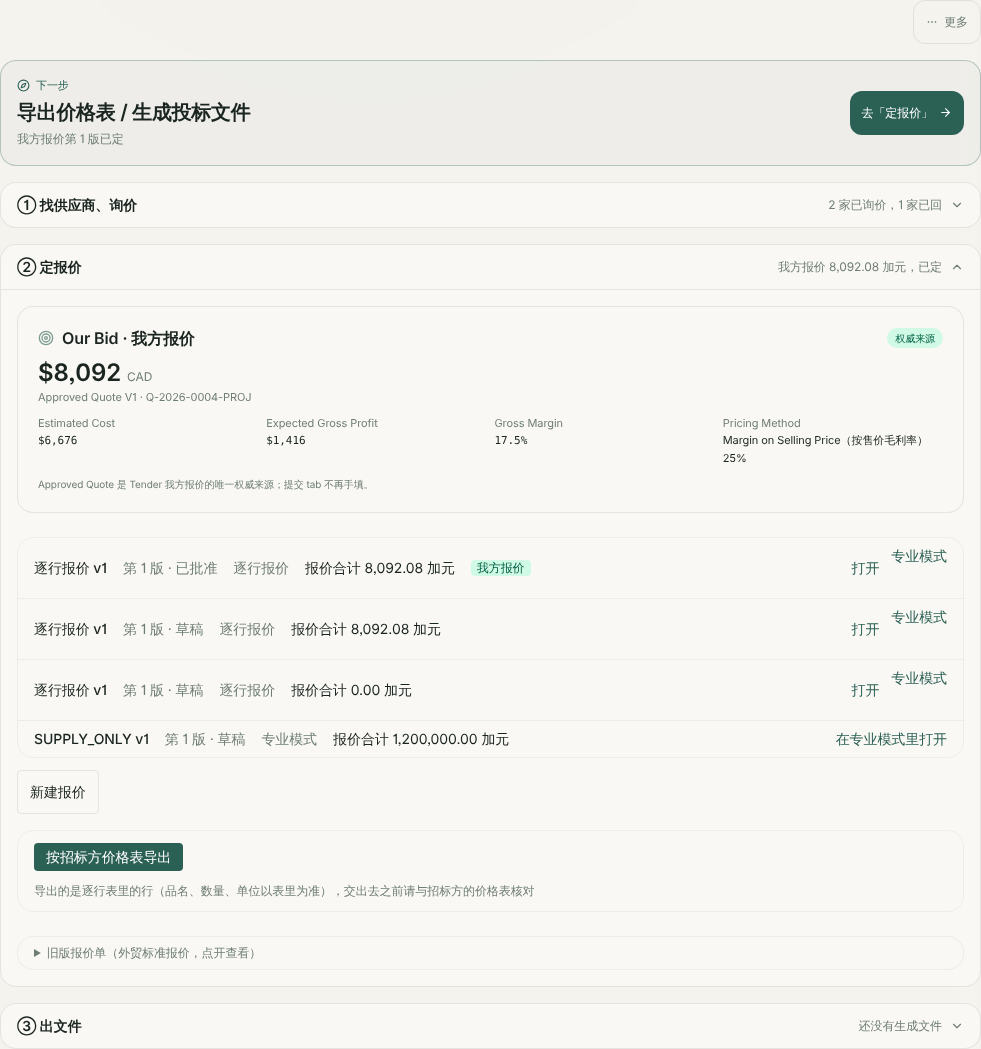
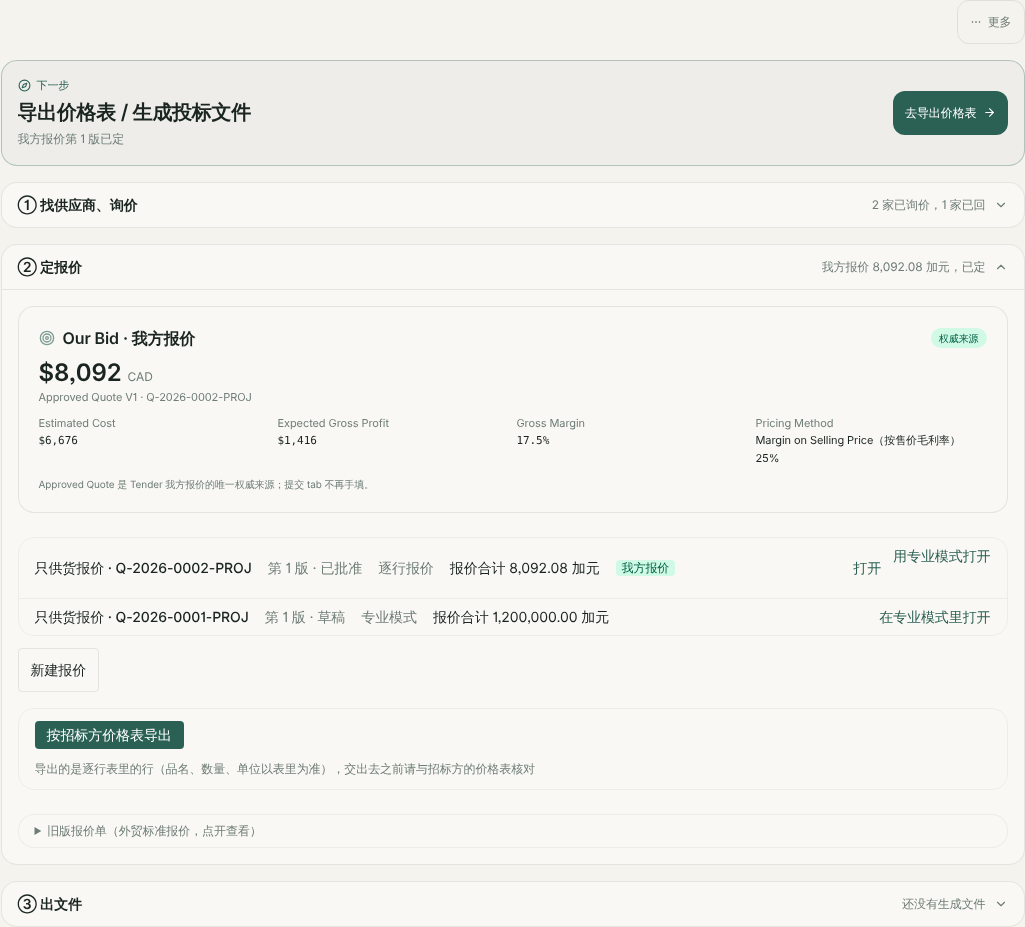
BIDPAGE-3 报告：改了什么、出入、门禁、浏览器抽检（审查修订后重拍两张开关开的截图）、开工前审查 / 六维审查 / 交叉验证的意见与去向、要确认的、没验证到的、回退；tasks 7、8 打勾
Claude-Session: https://claude.ai/code/session_01RmngaCXvkqTgXq8xGa2jdf

diff --git a/docs/QINGYAN_BIDPAGE-3_REPORT.md b/docs/QINGYAN_BIDPAGE-3_REPORT.md
@@ -1,0 +1,254 @@
+# BIDPAGE-3 报告 — 报价做法一「逐行报价」，成本存进系统（`quote-line-mode-persist`）
+
+| 项 | 值 |
+|---|---|
+| TASKFLOW | BIDPAGE-3（Phase F（续）— 标书与报价页改版） |
+| 任务书 | `docs/QINGYAN_BIDPAGE_BID_QUOTE_REDESIGN_TASKBRIEF.md`「BIDPAGE-3」、不确定处 1 / 2 / 4、附录 C 决定 A / C / H |
+| OpenSpec change | `openspec/changes/quote-line-mode-persist/`（新能力 `tender/quote-line-mode` 15 条；改 `tender/bid-page` 3 条） |
+| 基线 | origin/main `b717427f`（#561 BIDPAGE-1 归档合并后） |
+| 开关 | `TENDER_BID_PAGE_V2_ENABLED` + `TENDER_BID_PAGE_V2_ORG_ALLOWLIST`，默认关（与 BIDPAGE-1 同一组） |
+
+## 1. 做了什么
+
+| 以前 | 开关开着时（新页面 ②） | 开关关着时 |
+|---|---|---|
+| 招标方有价格表的标：成本只记在这台电脑的浏览器里（投标工作区成本卡），报价还得到专业模式另做一遍 | ② 换成新的报价区：报价列表 →「新建报价」两问（怎么交价 / 业务类型）→ 逐行报价（7 列表、共用参数、四项预置、目标毛利率、顶部四个数、差额说明）→「按招标方价格表导出」；旧版报价单折叠在最下面。都在金额门里 | 与改版前相同（入口仍渲染改版前的 `BidTab`；旧接口、专业模式行为不变） |
+| — | 成本存进报价引擎的成本行 `QuoteCostLine`（行身份在 `metadata.bidLine`），四个数与每行的数都只取 `computeQuote` 的结果 | — |
+| — | 新接口 `GET`/`POST /api/projects/{id}/bid-page/quotes`、`GET`/`PUT …/{quoteId}/line`、`GET …/{quoteId}/export` | 先过报价权限守卫，然后 404 |
+| 「下一步」「已定 → 导出价格表 / 生成投标文件」去 ③ | 看得到金额且我方报价是逐行报价时去 ②（按钮「去导出价格表」），否则照旧去 ③ | — |
+
+金额门（附录 C 决定 C，与 BIDPAGE-1 同一口径）：内部成本权限 ∧ 财务查看权（`resolveFinancePrivilege(...).canReadAll`）。② 整块只给看得到金额的人；写接口还要编辑权限。
+
+改到的已有文件（其余都是新文件）：
+
+| 文件 | 改了什么 |
+|---|---|
+| `src/lib/quote-engine/contract.ts` | `engineConfigSchema` 加可选 `entryMode`（不认识的值只丢自己）；专业模式保存用的 `quoteHeaderSchema.engine` 去掉这个字段（开关关时与改前相同） |
+| `src/lib/quote-engine/service.ts` | `nextQuoteNumber` 加 `export`，不改行为 |
+| `src/lib/bid-page-v2/next-step.ts`、`service.ts` | 「已定」的去处（只对看得到金额的人读做法） |
+| `src/components/bid-page-v2/bid-page-v2.tsx` | ② 的内容换成新区块，不再挂投标工作区面板与改版前的报价区 |
+| `scripts/test-all.sh`、`scripts/test-ci-unit.sh` | 三份新测试的注册行 |
+| `docs/QINGYAN_BIDPAGE_BID_QUOTE_REDESIGN_TASKBRIEF.md` | 附录 A 补三行（价格表单位、加拿大税名、币种） |
+| `docs/QINGYAN_MUSE_BRIDGE_TASKFLOW.md` | BIDPAGE-3 行 `[~]`，「恢复编辑报价」改判为不恢复 |
+
+`computeQuote`、`QUOTE_ENGINE_CALC_VERSION`（仍是 `quote-engine-calc/v2`）、`QUOTE_TRANSITIONS`、成本类别与计算方式、模板默认值都没改。零 schema；没有新增模型调用、出站、队列。
+
+## 2. 与任务书的出入
+
+proposal「与任务书的出入」七条，理由见 design：
+
+1. 没有财务查看权的人在新页面上连「报价合计」也看不到（验收 5 写「只看到报价合计」；Evan 对 CHAIN-2e 的答复 ② 也支持给他们看客户视图）——取更保守的决定 C（D7）。
+2. 有编辑权、没有财务查看权的人在新页面上不能做报价——Evan 对 CHAIN-2e 的答复 ①；BIDPAGE-1 记的「恢复编辑」义务改判为不恢复（D7）。
+3. 「逐行」只配「只供货」；供货加安装、长期供货协议转去专业模式，它们的我方报价不能按价格表导出（D1）。
+4. 提交、批准、选为我方报价仍在专业模式里做（只有一份已批准时系统自动选中），一次定价是 BIDPAGE-6。
+5. 新页面开着时界面上没有地方能存价格表，逐行表的行实际从「招标分析带入 → 核对 → 导入 → 保存」来（D5）。
+6. 逐行合计与系统记的我方报价之差上限是 Σ(数量 × 0.005)，不总是附录 C 说的「几分钱」（D4）。
+7. 货品类别用 `PROCUREMENT`、预置说明照引擎真实算法、不复用 `line-entry.ts`（D3 / D5）。
+
+不写 `QuoteLineItem`（附录 C 决定 H）；只有引擎一套算法、四个数取引擎（不确定处 1 / 4 的结论，D4）；`engineConfigSchema` 加可选字段的核对（不确定处 2，D1）。
+
+## 3. 测试与门禁
+
+本机（Node 24、Postgres 16 隔离库，`NODE_ENV=test DATABASE_ENVIRONMENT=isolated`），2026-11-23，基于 main `b717427f`：
+
+| 项 | 结果 |
+|---|---|
+| `npm test`（全量，带隔离库），六维审查修订后 `a0d020bf` | **721/731，10 项失败，与 main 既有失败逐项相同**（名单同 BIDPAGE-1 报告 §3） |
+| `npm test`，交叉验证建议补的测试之后（最终代码 `954d81c5`） | 进行中（结果补在这里与 PR 正文） |
+| `npm run test:ci`（CI 同款环境变量：占位 `DATABASE_URL`、`NODE_ENV=test`、不设 `DATABASE_ENVIRONMENT`） | `CI unit subset PASS`（`a0d020bf`）；最终代码：进行中 |
+| 本 PR 新测试 | `quote-line.test.ts` 96/96；`quote-step.test.tsx` 58/58；`quote-line-db.isolated.test.ts` 64/64 |
+| BIDPAGE-1 的测试 | `next-step.test.ts` 124/124；`bid-page-v2.test.tsx` 101/101（含开关关时入口与改版前 `BidTab` 逐字节相同）；`bid-page-summary-db.isolated.test.ts` 55/55 |
+| FIX-21 目录守卫 `project-routes-guard.test.ts` | 98/98（严格通过 254 个处理函数，含本 PR 的 5 个） |
+| `npm run typecheck` | 通过 |
+| `npm run lint:baseline` | PASS（无新增 error fingerprint） |
+| `bash scripts/check-test-registry.sh` | 通过（已注册 696，历史欠账 66 条未增） |
+| `npx -y @fission-ai/openspec@1.15.0 validate quote-line-mode-persist --strict` | valid |
+| `git diff origin/main -- prisma/ vercel.json`；`git diff --stat origin/main -- openspec/specs` | 都为空 |
+
+跑全量前照交接 §4 删了残留的平台组织 wecom 网关行、删了 `.next`。
+
+## 4. 浏览器抽检
+
+本地起应用（隔离库合成数据，平台超级管理员身份），截图在 `docs/acceptance/bidpage-3/`：
+
+- 开关关：分支与 main 同一项目「标书与报价」页签区截图**像素完全一致**（`flag-off-main.png` / `flag-off-branch.png`，sha256 相同）。之后的修订没有动开关关时的渲染路径（入口文件、`BidTab` 都没改），交叉验证复核同意这两张仍然有效。
+- 开关开（审查修订前，05:33）：新建逐行报价、粘贴两行、逐键输入汇率「0.19」（小数点没被吞）、填共用参数与目标毛利率、不合法输入标红且不让保存、保存后四个数与隔离库测试的合成数字一致（8,092.08 / 6,675.97 / 1,416.11 / 17.5%）、差额说明「少 0.28，最多差 0.60」、批准并选为我方报价后导出可用。
+- **抽检时发现并修了 4 个问题**（`e1ff9a3d`）：粘贴进来的人民币行没有汇率格（汇率格改为按实际用到的外币列出）；按钮几乎看不见（用了不存在的 `bg-primary`，改用项目主色）；新建成功后表单不收起；回复里没有金额时写成「只报了总价 —」。
+- 开关开（审查修订后重拍，06:50 前后）：同样的操作再走一遍——汇率逐键「0.19」保存后仍是 0.19；报关费填「25a」标红、保存键灰；四个数 8,092.08 / 6,675.97 / 1,416.11 / 17.5%，差额说明写「最多差 0.60 加元。系统记的我方报价是报价合计；导出给招标方的价格表用逐行合计」；「没有预备金」是灰色说明；单位下拉「Box（盒）」、币种「人民币（CNY）」、预置写「销售提成」与「到手成本 = 货值 + …」、表下有行毛利率口径；编辑器标题「只供货报价 · Q-2026-0002-PROJ」（不再是「逐行报价 v1」）。`flag-on-line-quote.png`。
+- 批准并选为我方报价后：「下一步」是「导出价格表 / 生成投标文件 —— 去导出价格表」；列表标出我方报价；导出可点，实际下载得到 `text/csv`、`attachment; filename="price-schedule-Q-2026-0002-PROJ-v1.csv"`，两行单价 36.78 / 220.69、行合计 3,678.00 / 4,413.80、合计 8,091.80，与逐行表相同。`flag-on-decided-export.png`。（我方报价卡里的英文「Our Bid · Estimated Cost …」是旧组件，归 BIDPAGE-6 / 8。）
+
+## 5. 多维审查与交叉验证
+
+每条意见先核实再处理（「改了」/「不改」带理由）。
+
+### 5.1 开工前审查（1 个子代理，只读；审四件套并对照已写的代码）
+
+结论：2 阻断、17 应改、12 可选。全部逐条核实后处理。
+
+| # | 意见 | 去向 |
+|---|---|---|
+| B1 | tasks 15 条、多数没有 verify（rules.tasks：≤8 条、每条带 verify；隔离库那条没写「在隔离库全过」） | 改了：收成 8 条，每条写命令与预期；隔离库那条写 `DATABASE_ENVIRONMENT=isolated … 在隔离库全过`（`88ee3af8`） |
+| B2 | 数字输入框受控、每键 `toNum`：「12.」变「12」，再打 5 成 125；汇率 0.19 会成 19 | 改了：输入框留着人打的字，读得成数才往上报，读不成标红并不让保存（`parseNumInput` 纯函数 + 测试 14 种写法；删行 / 恢复时撤销登记）；tasks 7 浏览器抽检逐键输入带小数的汇率（`ff37b6f4`） |
+| S1 | 「行自动来自已确认的价格表」生产上走不到（只有投标工作区面板能存价格表，开关没开、新页面也不挂它） | 改了：design D5、proposal 出入第 5 条写明实际入口是招标分析带入；报告「要确认的」写验收 5 的验法 |
+| S2 | 「选为我方报价在我方报价卡里做」与代码不符（卡片只显示、点进去是专业模式；一份已批准时自动选中） | 改了：proposal、design D10、规格「专业模式入口」三处改成在专业模式里做 |
+| S3 | 推翻 TASKFLOW 的「恢复编辑」义务要留痕；实际后果没写；Evan ① 要的白话说明（看得到金额、没有编辑权限的人）缺 | 改了：tasks 8 写改 TASKFLOW 行；design D7 与 Risks 写实际后果、报告请确认；列表加「新建、修改报价需要项目编辑权限，请找项目负责人」，逐行报价只读说明加「请找项目负责人」，规格加场景（`ff37b6f4`） |
+| S4 | 专业模式能改报价币种，改了以后逐行表的汇率、金额都按加元写就错了；列表一律写加元 | 改了：读、存、导出遇到非加元 409 去专业模式；列表带币种并按它显示；规格「与专业模式改同一份报价」写明；隔离库测改成美元的情况 |
+| S5 | `entryMode: z.enum(["LINE"])` 遇到不认识的值整份配置解析失败（回退 BIDPAGE-4 后会丢税与情景） | 改了：`.optional().catch(undefined)`，不认识的值只丢自己；测试锁住税与情景照旧；design D1 写回退情形 |
+| S6 | 「各行毛利率相同」「差几分钱」说法不对（小单价行毛利率偏差明显；大数量差额可达上百元） | 改了：design D4 / Risks、proposal 改成如实说法并量化；界面差额说明里写出上限；补被否决的备选（按行挑进位方向、引擎反推、按体积重量） |
+| S7 | 界面公式「报价 = 成本 ÷（1 − 毛利率）」与顶部成本合计（含提成）对不上 | 改了：「报价 = 提成前的成本 ÷（1 − 目标毛利率），提成再从毛利里扣」，渲染测试锁住 |
+| S8 | 逐行保存会悄悄覆盖专业模式的改动（定价方式、不计入、算法），规格没写 | 改了：规格新增「与专业模式改同一份报价」；定价方式改过且目标毛利率空着时 400；货品不计入 / 类别算法被改 / 共用参数预置算法被改都提示会改回（`ff37b6f4`） |
+| S9 | 规格漏了接口路径与状态码、不是逐行 409、点选改价 400、冻结 409、CSV 类型与文件名、导出 409 / 403、列表字段；MODIFIED 的金额门清单漏「旧版报价单」 | 改了：规格逐条补上；MODIFIED 加旧版报价单 |
+| S10 | 场景数字与测试文件对不上（不写浏览器、草稿导入、0.03、2.5 元） | 改了：场景改成测试里的真实数字与文件；草稿提示的判定抽成纯函数 `draftToPrompt` 并测 |
+| S11 | MODIFIED 增量依赖 `bid-page-v2-shell` 先归档 | 改了：tasks Workflow follow-up 写明先合 #561；tasks 2 / 6 写跑 FIX-21 目录守卫、变基后门禁 |
+| S12 | 「已定」一律去 ②，我方报价是专业模式做的时候不合适 | 改了：我方报价是逐行报价时去 ②，否则照旧去 ③（汇总多读一次做法字段）；BIDPAGE-1 的测试断言恢复为 ③，另加逐行报价去 ② 的用例；规格 MODIFIED 同步 |
+| S13 | 「逐行 + 供货加安装」转去专业模式比任务书窄，没列为出入 | 改了：proposal 出入第 3 条、design D1 写理由，报告请 Evan 确认 |
+| S14 | 导出的是表里可改的行，不一定是招标方原表 | 部分改：导出处写明「导出的是逐行表里的行……请与招标方价格表核对」，规格写明；**不做**与存过的价格表逐行比对——理由：生产上几乎没有存过的价格表（S1），且补遗常要改行（design D9 备选） |
+| S15 | 询价回复的币种不在报价币种里时只得到笼统报错；默认 CAD 可能掩盖没写币种 | 改了：这类回复不能点选并写明原因；点选后提示核对单位与币种 |
+| S16 | 几个 Decision 没写被否决的备选 | 改了：D1–D10 每条补备选与否决理由 |
+| S17 | proposal 没写验收 5 的出入 | 改了：proposal 出入第 1 条 |
+| O1 | 设计说用 `convertQuoteToTenderUom`，代码是自写换算 | 改了设计文字（同一规则，取到 4 位） |
+| O2 | `line-entry.ts`、`reconcile.ts`、货品类别的去向没交代 | 改了：D3 / D4 / D5 各一句 |
+| O3 | 海运柜数 0 被当成计入、引擎随后报错 | 改了：柜数 0 = 不计入，测试锁住 |
+| O4 | 有新版待批准时导出原因误导 | 改了：「我方报价有新版还没定：……」，隔离库测 |
+| O5 | 列表 403 时显示笼统的「没加载出来」 | 改了：显示接口给的原因 |
+| O6 | proposal What 不是动词开头；Non-Goals 不具体 | 改了 |
+| O7 | 「旧配置不受影响」用 omit 推出的旧校验，有点自证 | 不改：本 change 对 schema 的唯一改动就是加这一个键，omit 掉它就是改前的形状；另有源码 diff 可查 |
+| O8 | 到手成本含专业模式加的其它直接成本 | 改了：表下写明到手单位成本怎么来 |
+| O9 | CSV 没防公式注入 | 不改：`official-export.ts` 是共用文件（规格 `tender/price-schedule`），品名来自招标方价格表；记为已知限制与后续（design D9） |
+| O10 | 单位显示英文，BIDPAGE-8 守卫会扫到 | 记进交接：BIDPAGE-8 把招标原文单位列为例外或配中文名 |
+| O11 | 草稿币种没转大写、没对照币种表 | 改了：转大写、不在币种表的那一行不带入并写明；按行号对上不改（草稿与逐行表来自同一张价格表；按品名对反而更易错，design D8） |
+| O12 | 列表与导出可用性各调一次 `resolveTenderBid` | 改了：合并成一次 |
+
+### 5.2 六维审查（6 个子代理，只读；各管一个维度，只看任务书、四件套与 diff）
+
+六个维度都**没有阻断**。应改合计 41 条、可选 46 条，逐条核实后处理。「改了」的代码在 `e7e86f2a`，四件套与文档在 `a0d020bf`。
+
+| 维度 · 结论 | 意见 | 处理 |
+|---|---|---|
+| ① 需求符合 · 无阻断，8 应改 9 可选 | 1 规格 / tasks / design 把「已定按做法去 ② / ③」的测试指到 `next-step.test.ts`（已挪到 `quote-line.test.ts` 7a） | 改了：三处改正（同 ⑤ 1） |
+| | 2 表空时也提示旧草稿，点「导入」带不进任何行却把提示用掉；按行号对上只对来自价格表的行成立 | 改了：表里有按行号对得上的行才提示（`draftToPrompt` 多一个行数参数），保存后再判；行不是来自价格表时提示「按行号对上，请逐行核对品名」；测试补表空不提示 |
+| | 3 行毛利率的口径没在界面注明（不确定处 4） | 改了：表下加一句行毛利率口径；渲染测试锁住 |
+| | 4 粘贴导入后整框清空，没单位的行丢了；招标分析带入沿用投标工作区的说明（「保存时略过」「尺寸、认证要求」不适用） | 改了：粘贴框只去掉已导入的行（`remainingPasteText`），没导入的留着并写明；逐行报价自己的说明 `linePrefillMessageZh` |
+| | 5 出入 5 / D5 没讲透：新页面上存不了价格表；没列「新建时自动从招标分析带入」为被否决的备选 | 改了：D5、出入 5 写明；补被否决的备选（FIX-2「数量线索，由人核对」）；报告写验收 5 的验法 |
+| | 6 出入 1 只引决定 C，漏了 Evan ②（其他人只看客户视图） | 改了：出入 1、D7 补上，写为什么取更保守的一边；报告请确认 |
+| | 7 差额上限与附录 C「几分钱」不同、出入 3 的导出后果没进 proposal | 改了：proposal 新增出入 6；出入 3 补「这两类业务的我方报价不能按价格表导出」；报告请 Evan 确认 |
+| | 8 tasks 没打勾、task 8 没做、TASKFLOW 旧口径 | 改了：tasks 1–5 打勾（6–8 门禁、抽检、报告做完再勾）；TASKFLOW `[~]` 并改判；本报告 |
+| | 可选 9 D1「业务类型问在做法之前」与原文不符；业务类型落在 `quoteType` 没写 | 改了 |
+| | 可选 10 proposal 出入清单不全（PROCUREMENT、说明照真实算法、不复用 line-entry） | 改了：出入 7 |
+| | 可选 11 目标毛利率空着按 0 算没提示 | 改了：顶部写「目标毛利率还没填，按 0% 算」 |
+| | 可选 12 导入草稿会覆盖表里已有的报价 | 改了：已有供应商报价的行不覆盖并写明哪几行 |
+| | 可选 13 导出条下面还有旧版报价单，严格说不是 ② 最底部 | 改了规格措辞（「② 的报价区底部」）；判断点 4 收进「更多」由 BIDPAGE-8 做，记进交接 |
+| | 可选 14「位置不在页面上时只展开分区」与代码（滚到分区标题）不符 | 改了规格措辞 |
+| | 可选 15 `bid-page-v2.tsx` 文件头注释过时 | 改了 |
+| | 可选 16 `seed.scheduleLineCount` 界面没用；报价建好后才存的价格表没有带入入口 | 不改：生产上新页面开着时存不了价格表（D5）；记进交接 |
+| | 可选 17 我方报价不是逐行时「已定」标题仍写「导出价格表」 | 不改：标题是 BIDPAGE-1 的规则，③ 的价格表导出归 BIDPAGE-7；记进交接 |
+| ② 计算正确 · 无阻断，3 应改 8 可选（独立复算 4 行 + 共用参数 + 专业模式保险：四个数、单价、行合计、差额、上限与手算一致） | 1 报价填 0 的行显示「—」、导出说缺单价 | 改了：报价 0 的行单价 0、行合计 0、可导出（不参与按货值分摊）；测试补 |
+| | 2 专业模式改了海运行的数量，逐行表不提示，原样保存报价悄悄变 | 改了：按「数量 × 柜数」读成柜数并提示，保存后金额不变；测试锁住保存前后报价相同 |
+| | 3 「只影响到手单位成本那一列」易被读成运费不进报价 | 改了：「都算进报价合计（所以每行我方单价也跟着变）……」（同 ⑥ 5） |
+| | 可选 1 数量 0.00004 能过校验入库变 0；超 4 位小数悄悄取整；没有上限会写库溢出 500 | 改了：数量最多 4 位小数；数量、供应商报价、行金额、汇率、共用参数、包装数设上限；测试补 |
+| | 可选 2 有「按售价计的比例」行时定价公式不成立 | 改了：公式补半句「专业模式里加了按售价算的费用时，分母再减去这些比例」 |
+| | 可选 3 管理费成本行说明缺「3% 时」 | 改了：「管理费（含自身，3% 时 100 → 103.09）」 |
+| | 可选 4 月数提示「1 到 120」与校验不一致 | 改了：「要大于 0、不超过 120（不足一月按一月）」 |
+| | 可选 5 「一种币一个汇率」不管专业模式加的其它行 | 改了：其它行用了另一个汇率时提示、保存不改它；测试补 |
+| | 可选 6 柜数 0 时每柜的数从界面上消失 | 改了：照样记着、照样显示；测试补 |
+| | 可选 7 到手单位成本只取到分，分以下的货品失真 | 改了：留 4 位，界面不到 1 元时显示 4 位；测试补 |
+| | 可选 8 草稿导入的按件行改单位后口径下拉消失、改不回 | 改了：已是按件的行照样显示口径下拉 |
+| ③ 权限与脱敏 · 无阻断，3 应改 5 可选 | 1 「下一步」对看不到金额的人也读做法并去 ②（锁着），去处随做法变能推出做法 | 改了：汇总只为看得到金额的人读做法；`actionOf` 也判 `canViewAmounts`；测试补看不到金额的人仍去 ③；规格 MODIFIED 写明 |
+| | 2 手填行把提交里的 `supplierName` 写进库（只清了 id）；点选后改价仍留着甲的名字 | 改了：手填行的供应商只沿用库里同一条手填货品行的，否则为空；界面改价 / 币种 / 口径 / 取消点选时一并清；隔离库补三种情况 |
+| | 3 TASKFLOW BIDPAGE-3 行还写「恢复编辑」 | 改了（同 ① 8）；报告点名请 Lucas 确认 |
+| | 可选 1 写接口的门没判内部成本权限 | 改了：`lineModeGate` 先判 `canViewInternal` 再判财务查看权；源码断言锁住顺序 |
+| | 可选 2 专业模式事务与快照之间的窄窗口（丢更新） | 不改代码：要改专业模式的服务（Non-Goals）；写进 design Risks 与交接 |
+| | 可选 3 隔离库缺跨项目用例 | 改了：别的项目的报价走这个地址读 / 存 / 导出、点选别的项目的回复、行 id 指向预置行，都补了 |
+| | 可选 4 汇总新查询没带 `orgId` | 改了（汇总与导出可用性两处） |
+| | 可选 5 CSV 公式注入（本 change 第一次开了导出接口，品名可能来自外部文件） | 改了：`exportLineQuote` 里给以 = + - @ 制表符、回车开头的品名加 `'`（`csvSafeText`），共用的 `official-export.ts` 不改。开工前审查 O9 当时「不改」，这次改判（更保守） |
+| ④ 开关关 = 零变化 · 无阻断，1 应改 3 可选 | 1 旧 PUT `/quote-engine/{quoteId}` 的表头 schema 复用了加了 `entryMode` 的配置：开关关时手工请求能写进库；连带能把库里的 LINE 盖掉、把非只供货报价标成逐行 | 改了：`quoteHeaderSchema.engine = engineConfigSchema.omit({ entryMode: true })`；`isLineModeQuote` 同时要求只供货；测试锁住四种输入下表头解析不带做法、库里的 LINE 合并后保留 |
+| | 可选 1 schema 对照测试用 `JSON.stringify` 比较，测不出多出的 `undefined` 键 | 改了：`isDeepStrictEqual` + 键集合 |
+| | 可选 2 隔离库的开关关只测了列表 | 改了：新建、读、存、导出都 404，库里没多出报价 |
+| | 可选 3 旧页面的前端包变大（静态引入） | 不改：行为不变；入口源码受 BIDPAGE-1 测试断言约束；写进 design Risks |
+| ⑤ 硬纪律 · 八条全遵守，4 应改 7 可选 | 1 规格引用的测试文件不对（同 ① 1） | 改了 |
+| | 2 逐行保存的审计没有 Requirement | 改了：规格写明保存写一条带做法与行数的审计，场景引隔离库（测试断言行数） |
+| | 3 tasks 没打勾、task 8 没做 | 改了（同 ① 8） |
+| | 4 开 PR 前要等 #561 合并再变基 | 照做：#561 已合并（`b717427f`），已变基，`git diff origin/main --stat -- openspec/specs` 为空 |
+| | 可选 5 「各种身份」场景写「库里没变」但没比对 | 改了：被拒的写请求前后比对成本行快照 |
+| | 可选 6 「新版还没定」是条件断言 | 改了：直接断言状态是 `QUOTE_REVISION_PENDING` 且原因含「新版还没定」 |
+| | 可选 7 两处场景引用的测试不全 | 改了 |
+| | 可选 8 规格写了函数名 `computeQuote` | 改了：「直接调用报价引擎」 |
+| | 可选 9 文件名 / Content-Disposition 没断言；引擎算不出的 409 没列；400 文案没枚举 | 改了前两项（隔离库断言附件头；规格列出引擎算不出 409）；400 文案不逐条进规格：在纯测试里逐条锁住，规格写「指到第几行」与关键句 |
+| | 可选 10 proposal「不写浏览器本地存储」与实际写一个标记不一致 | 改了 |
+| | 可选 11 design 硬纪律第 4、8 条写得不准 | 改了 |
+| ⑥ 中文文案 · 无阻断，22 应改 14 可选 | 1 「提成」→「销售提成」（附录 A） | 改了：界面、成本行说明、校验文案 |
+| | 2 「报价」一词三用 | 改了：指供应商的价一律写「供应商报价」 |
+| | 3 「到手成本」三种写法；「直接成本」用户不懂 | 改了：预置区先定义「到手成本 = 货值 + 海运费 + 报关费 + 国内运费 + 关税」，各处统一 |
+| | 4 CNY / 人民币混用 | 改了：选币种写「人民币（CNY）」，汇率行「1 人民币（CNY）=」，其余写中文名 |
+| | 5 共用参数说明易误读（同 ② 3） | 改了 |
+| | 6 毛利率说明无条件显示 | 改了：销售提成计入且比例大于 0 才显示 |
+| | 7 其它成本行「已算进四个数」与「不计入」矛盾 | 改了 |
+| | 8 草稿导入提示「没带入：…带入了」「第 （无） 行」 | 改了：每条自己写清楚；对不上时照实说 |
+| | 9 招标分析带入沿用投标工作区的说明（同 ① 4） | 改了 |
+| | 10 「已定或已结束」把已批准没选上的也说成已定 | 改了：写出状态名「这份报价「已批准」，内容锁定」 |
+| | 11 保存冲突两种说法、没提醒修改会丢 | 改了：服务端「（也可能是你在专业模式里改的），这次没保存」；界面写修改还在框里、怎么看最新内容 |
+| | 12 导出不可用的原因没说去哪儿做 | 改了 |
+| | 13 引擎报错的中文与默认原文照搬 | 改了：三条改写；其余一律「有一条成本行填得不对……请在专业模式里打开这份报价检查」 |
+| | 14 没有预备金的琥珀色警告一直挂着 | 改了：灰色说明，写明与现金备用金不是一回事 |
+| | 15 定价方式改过的提示只说「会改回」 | 改了 |
+| | 16 「有没保存的修改」像提问 | 改了：「有修改还没保存」 |
+| | 17 管理费说明「自含」 | 改了：「管理费按含自身算……（管理费是 3.09，不是 3）」，保留「100 → 103.09」 |
+| | 18 提示里塞整句带公式的说明；「逐行保存」 | 改了：短名；「在这里保存」 |
+| | 19 报价名出现「逐行报价 v1」「SUPPLY_ONLY v1」 | 改了：列表与编辑器只用名称，没有就写「业务类型报价 · 编号」；新建标题不带版本号 |
+| | 20 「制表符」 | 改了：「从 Excel 选中这几列复制、粘贴即可……」 |
+| | 21 英文单位、「进口 GST」没进附录 A | 改了：附录 A 补三行（价格表单位、加拿大税名、币种），下拉写「Box（盒）」 |
+| | 22 已定后按钮还叫人「去定报价」 | 改了：「去导出价格表」，规格 MODIFIED 同步 |
+| | 可选（14 条） | 改了 11 条：建好→新建、手加行→加一行、「用专业模式打开」、差额说明改写、「放弃修改」、「不导入」写明草稿还在、草稿没写证据类别时写明、汇率来源占位、比例 / 月数提示、包装数 / 币种 / 亏损提示的下一步、删掉没用的 `LINE_ROW_SOURCE_ZH`、毛利率与提成说明不重复。**不改 3 条**：表格每格带「加元」（7 列表头是任务书原文、测试锁住，格子写法与全站金额一致）；导出用 `<a download>` 时 409 原因到不了眼前（可用性在渲染前已判、按钮不可用时原因写在旁边，点击时才变的 409 只在两人同时操作时出现）；`api-gate` 的 404 句子（与汇总接口同一句，汇总接口在 CHAIN-2e 改动中）。导出文件名保留英文（交给招标方的附件，审查意见也认为合理） |
+| | 同一屏、不在本 PR 的（我方报价卡英文、`access.ts` 的两句、`paste-import`「缺少说明」、旧版报价单位置） | 我方报价卡与 `access.ts` 在 CHAIN-2e 改动中、归 BIDPAGE-6 / 8，记进交接；「缺少说明」在逐行报价里显示时换成「缺少品名」（不改共用文件）；旧版报价单位置同 ① 可选 13 |
+
+### 5.3 交叉验证（1 个子代理，没参与实现与审查；任务是找出不该合并的理由，不采信任何人贴的结果）
+
+**结论：可以合并，没有阻断项，不需要停下来问人**（前提：报告与 PR 正文写全、截图重拍、合并前再 `git fetch`——都已做，见 §3 / §4）。它亲自做的：
+
+| 验证 | 结果 |
+|---|---|
+| typecheck / openspec validate --strict / 注册校验 / `prisma`、`vercel.json`、`openspec/specs` 的 diff | 通过 / valid（MODIFIED 的 3 条在主规格里都在、原有场景一条没少）/ OK / 都为空 |
+| 单文件测试（自己跑） | quote-line 95、quote-step 58、bid-page-v2 101、next-step 124、路由守卫 98，全过；既有引擎测试 quote-calc 60、quote-engine-contract 29、quote-ops-contract 75 全过 |
+| 隔离库（自己的库 `qingyan_xv`） | quote-line-db 62/62、bid-page-summary-db 55/55 |
+| 开关关 = 零变化：从 `origin/main` 取出原文件比 schema（深度相等 + 键集合） | 不带做法字段的输入全部相同：配置 22 组、`engineOf` 110 组、`updateEngineQuote` 合并路径 2200 组、报价表头 33 组；只有带 `entryMode` 的输入不同（只有新页面写得出来） |
+| 计算：自己另写一套算法（不调 calc / allocation / freight / unit-conversion） | 人民币与美元两种外币、按件 12 件一盒、数量 37.5、报价 0 的行、没填报价的行、专业模式加的保险 450、关税 6.5%、海运 2 柜、国内运费人民币：四个数 14,542.72 / 12,252.24 / 2,290.48 / 15.75%、到手成本、五行全部字段、逐行合计 14,543.50、差 0.78、上限 1.0425，与 `buildLineComputed` 全部一致；`calc.ts` 无 diff，算法版本号没改 |
+| 权限 | 五个处理函数第一句是守卫，之后开关门、金额门（内部成本权限 ∧ 财务查看权）；跨项目、跨组织、点选别的项目的回复、手填行伪造供应商都挡住；「下一步」只对看得到金额的人读做法 |
+| 坏改动实验（副本里一次改一处，改完还原） | 22 种，20 种被抓（去开关、金额门只看一项两种、去表头 omit、报价 0 的行退回 null、手填行用提交的供应商、表空也提示草稿、导出不加防公式前缀、「下一步」不判金额权限、汇总对所有人读做法、去 `.catch`、点选不限项目、做法不限只供货、写接口先读请求体、行 id 改到预置行、看不到金额也挂报价区、行毛利按到手成本算、单价向下取等）；漏 2 种是测试缺口（见下表 1、2），代码是对的 |
+| 与 CHAIN-2e（#556）重叠 | 只重叠 TASKFLOW 与两个 `test-*.sh`；试合并：测试脚本自动合并，TASKFLOW 的冲突在 CHAIN 那一节（main 与 CHAIN-2e 本来就冲突，不是本 PR 引起）；合并后的副本类型检查通过，BIDPAGE-3 七份测试与 CHAIN-2e 的 quote-engine-contract 43、finance-access 59 都过 |
+| 硬纪律 | 零 schema；没有出站、队列、模型调用；测试与截图都是合成数据，四张截图逐一看过 |
+| 主会话的全量门禁日志 | 自己 diff：721/731，10 项失败与 main 基线名单逐条相同；「Sunny 工艺单 DB 端到端」在 `origin/main` 副本、它自己的库上复现了同样的失败 |
+
+**它提的不阻断问题与处理**：
+
+| 意见 | 处理 |
+|---|---|
+| 1 「导出不是当前我方报价的那份」没真正测到（拿来测的是供货加安装报价，409 来自「不是逐行报价」） | 改了：另建一份逐行草稿报价导出，断言 409 与「这份报价不是当前的我方报价」 |
+| 2 报价列表只取本项目没有测试 | 改了：断言 P2 的列表只有它自己的报价 |
+| 3 截图早于审查修订（还是「逐行报价 v1」「1 CNY =」「提成」「去「定报价」」） | 改了：开关开的两张重拍（§4）；开关关的两张仍有效 |
+| 4 「旧配置解析不变」用 omit 推出的旧 schema，有点自证 | 改了：测试里原样冻结改前的 `engineConfigSchema` 与 `quoteHeaderSchema`（取自 `b717427f`），配置与表头都与它深度比较 |
+| 5 金额门只看一项、汇总对所有人读做法只有源码断言抓得到 | 不改：今天有编辑权的角色都有成本读权，隔离库造不出这种身份；源码断言锁住 |
+| 6 开关打开后旧接口照今天的口径给金额（逐行成本存进 `QuoteCostLine` 后，`project:cost:read` 的人可经 `GET /quote-engine/{quoteId}` 读到） | 不改本 PR：附录 C 决定 C 留给 CHAIN-2e；交接 §5 上线前置条件第 2 条保留 |
+| 7 汇总接口从 `./quote-line/service` 引入判定函数，带进一整套服务端模块 | 改了：从 `./quote-line/contract` 引入 |
+
+它对处理表里所有「不改」条目的判断：**全部同意**。
+
+## 6. 要 Lucas / Evan 确认的事（不阻塞本 PR 合并：开关在八个都合并前不打开）
+
+1. **没有财务查看权的人在新页面上看不到报价合计**（出入 1）：任务书验收 5 与 Evan 对 CHAIN-2e 的答复 ② 都支持给他们看卖价这一层，本 change 取了更保守的决定 C。CHAIN-2e 合并后会出现「专业模式页上能看到客户视图、新页面上什么都看不到」的口径差。要不要给他们看报价合计，请 Evan / Lucas 定；要的话在 BIDPAGE-6 / 7 一并做（要另做一个只出卖价的视图与接口）。
+2. **「恢复编辑报价」改判为不恢复**（出入 2）：依据 Evan 对 CHAIN-2e 的答复 ①。实际后果：开关开着时，不是项目负责人、也没有组织范围财务查看权的投标同事，在新页面上完全做不了报价（旧页面上他们能）。决定 C 是 Lucas 拍板的，请 Lucas 确认。
+3. **逐行只配只供货**（出入 3）：供货加安装、长期供货协议的我方报价是专业模式报价，不能「按招标方价格表导出」。请 Evan 确认这两类标不需要按价格表导出（或由 BIDPAGE-7 另给入口）。
+4. **差额**（出入 6）：交给招标方的价格表合计（逐行合计）与系统记的我方报价（引擎合计）可能不同，上限 Σ(数量 × 0.005)：数量 50,000 的一行最多差 250 加元；附录 C 写的是「几分钱」。页面上写明差多少、上限、系统记哪个、导出用哪个。请 Evan 确认可以接受，或指定以哪个为准。
+5. **验收 5 的第一步**（出入 5）：新页面开着时界面上存不了价格表。预发验收要么先在旧页面上（组织移出名单、打开投标工作区开关）存一张价格表，要么第一步改成「从招标分析带入 → 核对 → 导入 → 保存」。「换一个有成本权限的账号」必须是项目负责人或有组织范围财务查看权的人——只有 `project:cost:read` 的项目成员看不到。
+6. **验收 8 的「已定」**：要先到专业模式里提交、批准；只有一份已批准时系统自动选中（BIDPAGE-6 前都这样）。CSV 合计等于逐行合计，可能和 ② 标题上「我方报价 X 加元」（引擎合计）差几分钱，数量大时更多。
+
+## 7. 没验证到的地方
+
+- 预发 / 生产：实现会话访问不到；开关开着的真实用户界面（Sunny 的组织、真实岗位配置）未核实。
+- 普通（非超级管理员）用户在浏览器里的新页面视图：被页面准入挡住，没截到；由渲染测试与隔离库测试（六种身份）覆盖。
+- 生产库里有没有存过的价格表、有没有旧的本地成本草稿：会话连不上生产，未核实（D5 的「几乎没有」是按代码路径推的：只有投标工作区面板能存，它的开关在生产没开——开关是否确实没开也未核实）。
+- 专业模式保存与逐行保存之间的窄并发窗口（design Risks）：没有复现测试，只读代码确认。
+- CHAIN-2e 合并后的金额门：CHAIN-2e 把报价的内部成本权限改成等于财务查看权，本 change 的门（内部成本权限 ∧ 财务查看权）随之实际等于财务查看权——持组织范围财务查看权、不是项目成员的组织管理员 / 企业负责人会新看到逐行报价（CHAIN-2e 会话 2026-11-23 来信说明；已回复按新口径走，方向与决定 C 一致）。合并后要重跑本 change 与 BIDPAGE-1 的隔离库测试，规格里的身份表按新口径核对（交接里记了）。
+
+## 8. 回退
+
+回退本 PR，或开关保持关。回退后：已建的逐行报价在旧代码下按专业模式打开（成本行与 `metadata` 都在，`engineJson.entryMode` 在旧代码下一次保存引擎配置时被丢掉）；没有数据迁移要回滚。

diff --git a/openspec/changes/quote-line-mode-persist/tasks.md b/openspec/changes/quote-line-mode-persist/tasks.md
@@ -6,8 +6,8 @@
 - [x] 4. `bid-page-v2.tsx` 的 ② 换成新区块（我方报价卡保留、`#bid-quote-area` 保留、不再挂投标工作区面板与旧报价区、旧版报价单折叠在金额门里）；「已定」的按钮按我方报价的做法与看的人去 ② / ③（verify：`npx tsx src/lib/bid-page-v2/__tests__/next-step.test.ts` 与 `npx tsx src/components/bid-page-v2/__tests__/bid-page-v2.test.tsx` 全过，BIDPAGE-1 的开关关零变化断言照过；「已定」三种做法与看不到金额的人：`npx tsx src/lib/bid-page-v2/__tests__/quote-line.test.ts` 的 7a 节全过）
 - [x] 5. 新测试注册进 `scripts/test-all.sh` 与 `scripts/test-ci-unit.sh`（verify：`bash scripts/check-test-registry.sh` 输出 OK、历史欠账不增）
 - [ ] 6. 变基到最新 origin/main 后跑门禁（verify：`npm test` 失败名单与 main 逐条相同；CI 同款环境变量下 `npm run test:ci` 输出 `CI unit subset PASS`；`npm run lint:baseline` PASS；`npx -y @fission-ai/openspec@1.15.0 validate quote-line-mode-persist --strict` valid；`git diff origin/main -- prisma/ vercel.json` 为空）
-- [ ] 7. 浏览器抽检（本地合成数据，开关开）：新建逐行报价、两行报价（逐键输入一个带小数的汇率）、共用参数、四个数、差额说明、导出；开关关时页签与 main 截图一致（verify：截图存 `docs/acceptance/bidpage-3/`）
-- [ ] 8. 写 `docs/QINGYAN_BIDPAGE-3_REPORT.md`（改了什么、与任务书的出入、门禁、审查意见与去向、要 Lucas / Evan 确认的、未验证、回退）+ 更新 TASKFLOW 状态列与 BIDPAGE-3 行的义务文字（「恢复编辑报价」改判为不恢复）+ 交接文档（verify：报告存在；TASKFLOW BIDPAGE-3 为 `[~]`）
+- [x] 7. 浏览器抽检（本地合成数据，开关开）：新建逐行报价、两行报价（逐键输入一个带小数的汇率）、共用参数、四个数、差额说明、导出；开关关时页签与 main 截图一致（verify：截图存 `docs/acceptance/bidpage-3/`）
+- [x] 8. 写 `docs/QINGYAN_BIDPAGE-3_REPORT.md`（改了什么、与任务书的出入、门禁、审查意见与去向、要 Lucas / Evan 确认的、未验证、回退）+ 更新 TASKFLOW 状态列与 BIDPAGE-3 行的义务文字（「恢复编辑报价」改判为不恢复）+ 交接文档（verify：报告存在；TASKFLOW BIDPAGE-3 为 `[~]`）
 
 ## Workflow follow-up
 
